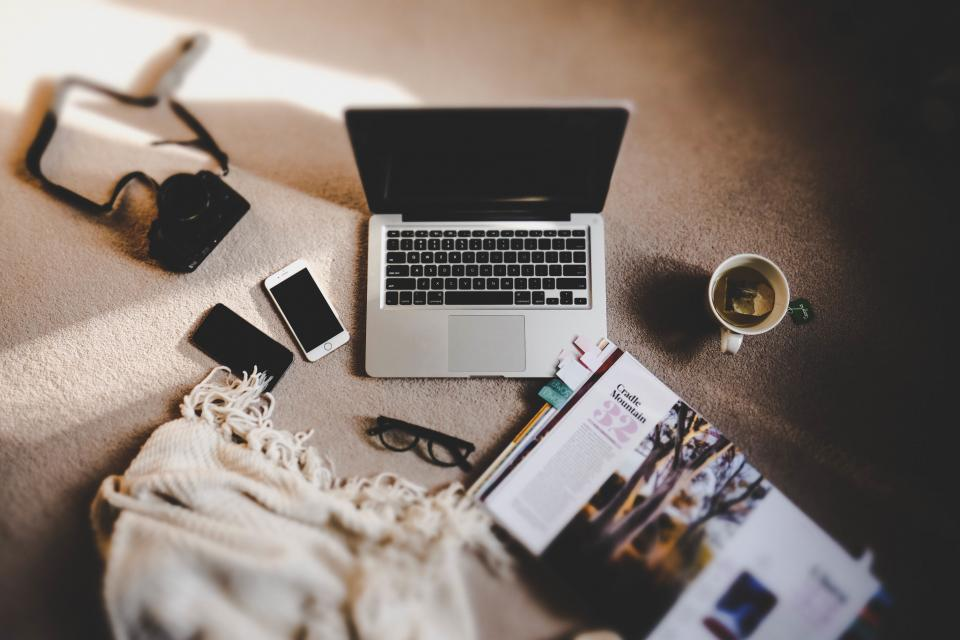
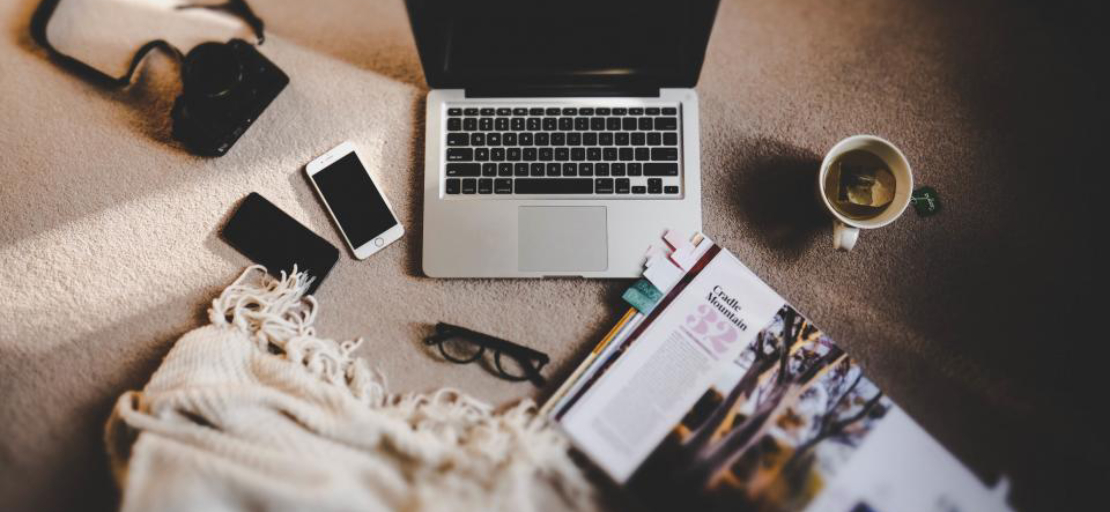
images size fixed

diff --git a/fashionadviserblog/templates/base.html b/fashionadviserblog/templates/base.html
@@ -4,7 +4,7 @@
   <meta charset="UTF-8">
   <meta name="viewport" content="width=device-width, initial-scale=1.0">
   <meta http-equiv="X-UA-Compatible" content="ie=edge">
-  <title>The Fashion Adviser v2</title>
+  <title>The Fashion Adviser</title>
 	<link rel="icon" href="{{ url_for('static', filename='images/favicon.png')}}" type="image/png">
 
   <link rel="stylesheet" href="{{ url_for('static', filename='vendors/bootstrap/bootstrap.min.css')}}">
@@ -15,6 +15,17 @@
   <link rel="stylesheet" href="{{ url_for('static', filename='vendors/owl-carousel/owl.carousel.min.css')}}">
 
   <link rel="stylesheet" href="{{ url_for('static', filename='css/style.css')}}">
+
+  <style media="screen">
+  @font-face {
+  font-family: 'bella_fashion_personal_useRg';
+  src: url('http://127.0.0.1:5000/static/fonts/bellafashion-webfont.woff2') format('woff2'),
+       url('http://127.0.0.1:5000/static/fonts/bellafashion-webfont.woff') format('woff');
+  font-weight: normal;
+  font-style: normal;
+  }
+  </style>
+
 </head>
 <body>
   <!--================Header Menu Area =================-->
@@ -38,9 +49,8 @@
               <li class="nav-item"><a  class="nav-link" href="{{ url_for('section.blog_section', sec_name='News') }}">News</a></li>
             </ul>
             <ul class="nav navbar-nav navbar-right navbar-social">
-              <li><a href="#"><i class="ti-facebook"></i></a></li>
-              <li><a href="#"><i class="ti-twitter-alt"></i></a></li>
-              <li><a href="#"><i class="ti-instagram"></i></a></li>
+              <li><a href="https://www.facebook.com/TheFashionAdviser.AngieZcoln/"><i class="ti-facebook"></i></a></li>
+              <li><a href=https://www.instagram.com/the.fashion.adviser/><i class="ti-instagram"></i></a></li>
             </ul>
           </div>
         </div>
@@ -115,12 +125,11 @@
   <footer class="footer-area section-padding">
     <div class="container">
       <div class="row">
-        <div class="col-lg-3  col-md-6 col-sm-6">
+        <div class="col-lg-6  col-md-6 col-sm-6">
           <div class="single-footer-widget">
             <h6>Acerca de mí</h6>
             <p>
-              Lorem ipsum dolor sit amet, consectetur adipisicing elit, sed do eiusmod tempor incididunt ut labore dolore
-              magna aliqua.
+              Soy Angie Zcoln, amante de la moda y en este blog quiero crear conciencia sobre las compras, brindar algunos consejos de estilo que ayudarán a mejorar tu imagen y sacarle provecho a todo aquello que tienes en tu clóset, conservando tu economía y el medio ambiente, sin perder tu esencia.
             </p>
           </div>
         </div>
@@ -153,7 +162,7 @@
             </div>
           </div>
         </div>
-        <div class="col-lg-3  col-md-6 col-sm-6">
+        <!-- <div class="col-lg-3  col-md-6 col-sm-6">
           <div class="single-footer-widget mail-chimp">
             <h6 class="mb-20">Instragram Feed</h6>
             <ul class="instafeed d-flex flex-wrap">
@@ -161,17 +170,17 @@
 
             </ul>
           </div>
-        </div>
+        </div> -->
         <div class="col-lg-2 col-md-6 col-sm-6">
           <div class="single-footer-widget">
             <h6>Sígueme</h6>
             <p>En mis redes sociales</p>
             <div class="footer-social d-flex align-items-center">
-              <a href="#">
+              <a href="https://www.facebook.com/TheFashionAdviser.AngieZcoln/">
                 <i class="fab fa-facebook-f"></i>
               </a>
-              <a href="#">
-                <i class="fab fa-twitter"></i>
+              <a href="https://www.instagram.com/the.fashion.adviser/">
+                <i class="fab fa-instagram"></i>
               </a>
             </div>
           </div>

diff --git a/fashionadviserblog/templates/section.html b/fashionadviserblog/templates/section.html
@@ -6,9 +6,9 @@
   <!--================ Hero sm Banner start =================-->
   <section class="mb-30px">
     <div class="container">
-      <div class="hero-banner hero-banner--sm" style="background-image: url({{url_for('static', filename='images/'+ section_name + '.jpg')}})">
+      <div class="hero-banner hero-banner--sm" style="background-image: url({{url_for('static', filename='images/'+ section_name.lower() + '.jpg')}}); background-position-y: bottom;">
         <div class="hero-banner__content">
-          <h1>{{ section_name }}</h1>
+          <h1 style="font-family: bella_fashion_personal_useRg, cursive" >{{ section_name }}</h1>
           <nav aria-label="breadcrumb" class="banner-breadcrumb">
             <ol class="breadcrumb">
               <li class="breadcrumb-item"><a href="{{ url_for('section.index') }}">Inicio</a></li>

diff --git a/fashionadviserblog/templates/post.html b/fashionadviserblog/templates/post.html
@@ -8,7 +8,7 @@
     <div class="container">
       <div class="hero-banner hero-banner--sm" style="background-image: url({{url_for('static', filename='images/bg.jpg')}}); object-fit: cover">
         <div class="hero-banner__content">
-          <h1>The Fashion Adviser</h1>
+          <h1 style="font-family: bella_fashion_personal_useRg, cursive" >The Fashion Adviser</h1>
           <nav aria-label="breadcrumb" class="banner-breadcrumb">
             <ol class="breadcrumb">
               <li class="breadcrumb-item"><a href="{{ url_for('section.index') }}">Inicio</a></li>

diff --git a/fashionadviserblog/static/style.css b/fashionadviserblog/static/style.css
@@ -29,8 +29,6 @@ body {
 
 }
 
-
-
 img {
     vertical-align: baseline;
 }

diff --git a/fashionadviserblog/blog_posts/forms.py b/fashionadviserblog/blog_posts/forms.py
@@ -8,7 +8,7 @@ class PostForm(FlaskForm):
     subtitle = StringField('Sumario:', validators=[DataRequired()])
     photo_url = StringField("Ingresa la URL de la foto:", validators=[DataRequired(), url()])
     section_name = SelectField(u'Elige una categoría para el post:',
-                          choices=[('Fashion', 'Fashion'), ('Beauty', 'Beauty'),
-                                   ('Fitness', 'Fitness'), ('Lifestyle','Lifestyle')])
+                          choices=[('Fashion', 'Fashion'),
+                                   ('News', 'News'), ('Lifestyle','Lifestyle')])
     post_content = TextAreaField('Escribe el contenido del post:',validators=[DataRequired()] )
     submit = SubmitField('Previsualizar')
